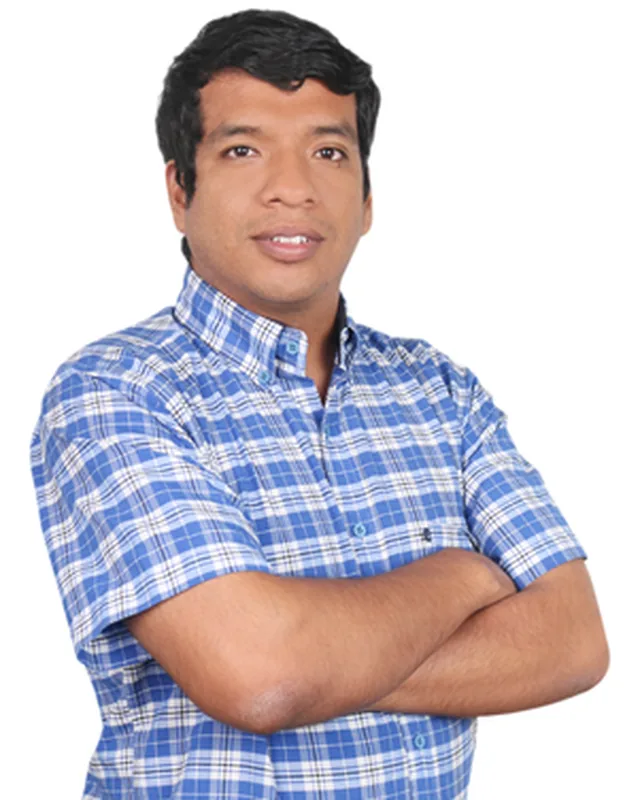
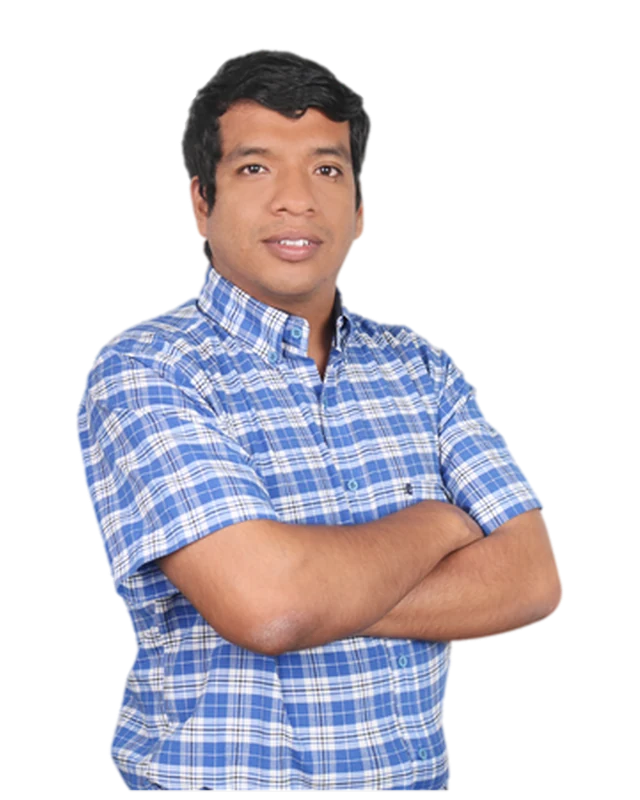
Equipo: fotos sin fondo de Giancarlos y Denis
- Se quita el fondo de ambas fotos (recorte con IA, bordes suavizados y sin el reflejo verde del pasto)
- Fondo transparente sobre un degradado celeste del sitio, para que las dos se vean iguales

diff --git a/styles.css b/styles.css
@@ -200,7 +200,7 @@ p{margin:0 0 .9em}
 
 /* Equipo */
 .miembro{display:grid;grid-template-columns:190px 1fr;gap:20px;background:var(--superficie);border:1px solid var(--linea);border-radius:22px;padding:18px;box-shadow:var(--sombra);align-items:start}
-.miembro img{width:100%;aspect-ratio:4/5;object-fit:cover;object-position:center top;border-radius:16px;background:var(--hundido)}
+.miembro img{width:100%;aspect-ratio:4/5;object-fit:cover;object-position:center top;border-radius:16px;background:linear-gradient(180deg,#D6E6FB 0%,#EAF4FB 100%)}
 .miembro h3{font-size:1.12rem;margin-bottom:2px}
 .rol{color:var(--acento);font-weight:700;font-size:.9rem}
 .m-txt p{font-size:.91rem}
